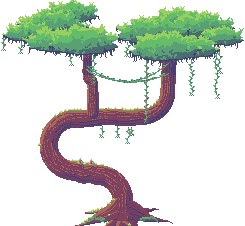
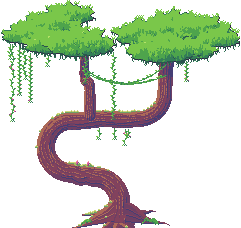
Arbusti e chiome con la tecnica degli esempi 116-118 di Bru
Bru: "miglioriamo gli arbusti e le foglie delle piante", con gli esempi
116-118 "da seguire rigorosamente".

- strumenti/livelli/piante.py: le foglie coi verdi e i valori degli esempi
  (scuro verde petrolio, medio verde pieno, luce verde-giallo, colpo di luce
  giallo); il fogliame a fasce nette con la luce in alto a sinistra, i
  passaggi fatti di foglie che pendono (col vuoto scuro che sale fra l'una
  e l'altra), tacche a V nella luce, ciuffetti chiari nell'ombra, pochi
  colpi di luce; il contorno scuro dalla parte dell'ombra e più chiaro
  dalla parte della luce; nei cespugli ogni lobo ha la sua luce e fra un
  lobo e l'altro la fessura in ombra; le chiome a cupole fatte allo stesso
  modo, col bordo in cima a ciuffi e 10 pixel di margine sopra (prima i
  ciuffi più alti si tagliavano).
- Rigenerati le piante, il ruscello e il pasto del goblin (cambiano solo le
  ombre degli alberi: la strada e la piazza restano identiche, la cucitura
  fra le due scene regge).

Claude-Session: https://claude.ai/code/session_01AE7uzpDH1Lo1PHb29aXJxZ

Changed region(s): [[0.0, 0.0, 1.0, 1.0]]

diff --git a/strumenti/livelli/piante.py b/strumenti/livelli/piante.py
@@ -7,13 +7,21 @@ passaggi di tono; le luci giallo-verdi a ventaglio sui lati in luce; l'indaco so
 che si vedono nei buchi; il tronco con le venature chiare dal lato della luce. I pixel sono della stessa misura di
 quelli di lei (niente ingrandimenti a blocchi): una pianta grande ha piu' lobi e piu' ciuffi, non foglie piu' grosse.
 Colori: quelli degli esempi di Bru (la stessa famiglia del prato).
+Le foglie dei cespugli e delle chiome (Bru, 27 novembre: "miglioriamo gli arbusti e le foglie delle piante", con gli
+esempi 116-118 "da seguire rigorosamente"): i verdi e i valori di quegli esempi (CHIOMA), fasce di luce nette (chiaro in
+alto a sinistra, medio, scuro in basso a destra, il piu' scuro in fondo e nelle fessure fra un lobo e l'altro), i
+passaggi fatti di foglie che pendono, le tacche a V nella luce, pochi colpi di luce gialla, il contorno (scuro dalla
+parte dell'ombra, piu' chiaro dalla parte della luce) e il bordo a ciuffi (_fogliame, _contorno).
 
 modulo: albero(alto, seme), pino(alto, seme), cespuglio(alto, seme) -> RGBA uint8
 uso: piante.py cartella_lei_chibi cartella_pezzi uscita.png   (la fila: lei, le piante nuove, le vecchie)"""
 import numpy as np
 
-# i colori degli esempi di Bru (110): chioma dallo scuro al chiaro, tronco
-CHIOMA = [(47, 41, 67), (69, 62, 116), (74, 109, 111), (89, 160, 116), (101, 189, 105), (151, 208, 95)]
+# le foglie, dallo scuro al chiaro, coi valori e i verdi degli esempi di Bru per cespugli e chiome (116-118): il
+# contorno indaco della mappa, lo scuro verde petrolio, il medio verde pieno, la luce verde-giallo viva e il colpo di
+# luce gialla (prima: i colori del 110, coi chiari troppo vicini e lo scuro viola)
+CHIOMA = [(47, 41, 67), (44, 84, 78), (52, 126, 88), (78, 164, 76), (122, 199, 74), (180, 226, 104)]
+# i colori degli esempi di Bru (110): il tronco
 TRONCO = [(69, 62, 116), (110, 64, 100), (130, 66, 93), (172, 105, 88)]
 # i pini: la rampa degli aghi (strumenti/tavolozza.py, 'pino'), piu' fredda, con gli stessi scuri
 PINO = [(47, 41, 67), (50, 54, 77), (45, 98, 104), (62, 132, 112), (112, 157, 118), (150, 182, 135)]
@@ -80,17 +88,29 @@ def _chioma(img, cerchi, rampa, rng, tono_base, sfondo_scuro=True):
     r_tot = max(c[1] + c[2] for c in cerchi) - min(c[1] - c[2] for c in cerchi)
     sagoma = np.zeros((h, w), bool)
     tono = np.full((h, w), -1.0)
+    lobo = np.full((h, w), -1)
     # dal fondo (dietro, in alto) al davanti (in basso): i lobi davanti coprono quelli dietro
-    for (cx, cy, r) in sorted(cerchi, key=lambda c: c[1]):
+    for i, (cx, cy, r) in enumerate(sorted(cerchi, key=lambda c: c[1])):
         dx, dy = (xx + 0.5 - cx) / r, (yy + 0.5 - cy) / (r * 0.92)
         d2 = dx * dx + dy * dy
         m = d2 <= 1.0
         nz = np.sqrt(np.clip(1 - d2, 0, 1))
         luce = (-dx * LUCE[0] * -1 * -1 + 0) if False else (dx * LUCE[0] + dy * LUCE[1]) * 0.75 + nz * 0.45
         alto = (cy_tot - cy) / max(r_tot, 1) * 1.2              # i lobi in alto prendono piu' luce
-        t = tono_base + luce * 1.6 + alto - 0.35
+        # come negli esempi 116-118: la luce chiara copre la meta' in alto a sinistra di ogni lobo, poi una fascia
+        # media, lo scuro solo in basso a destra
+        t = tono_base + luce * 2.6 + alto * 0.6 - 0.45
         tono[m] = t[m]
+        lobo[m] = i
         sagoma |= m
+    # dove un lobo dietro tocca quello davanti, la fessura e' in ombra (due gradini piu' scura, come fra i ciuffi
+    # degli esempi)
+    pad = np.pad(lobo, 1, constant_values=-1)
+    davanti = np.zeros((h, w), bool)
+    for dy, dx in ((1, 0), (-1, 0), (0, 1), (0, -1), (1, 1), (1, -1)):
+        v = pad[1 + dy:1 + dy + h, 1 + dx:1 + dx + w]
+        davanti |= (v > lobo) & (lobo >= 0)
+    tono[davanti] -= 2.0
     return sagoma, tono
 
 
@@ -131,6 +151,97 @@ def _colora(img, sagoma, tono, rampa, rng, minimo=1):
             forma = STELLE[rng.integers(len(STELLE))]
             _timbra(img, forma, x - len(forma[0]) // 2, y - len(forma) // 2, rampa[n - 1], sagoma)
     return liv
+
+
+# i segni del fogliame (esempi 116-118): le tacche scure a V e a trattino (il vuoto fra due ciuffi), i ciuffetti
+# chiari che pendono, i colpi di luce
+TACCHE = [['X.X', '.X.'], ['X.', '.X'], ['.X', 'X.'], ['X..X', '.XX.']]
+CIUFFETTI = [['X', 'X'], ['XX', '.X'], ['XX', 'X.'], ['.X.', 'XXX', '.X.'], ['XX', 'XX', '.X']]
+COLPI = [['X'], ['XX'], ['X', 'X'], ['.X', 'X.']]
+
+
+def _fogliame(img, m, tono, rng, rampa=CHIOMA, minimo=1, tacche=(22, 30), chiari=30, colpi=70):
+    """Il fogliame come negli esempi di Bru (116-118, il tutorial delle palle e delle cupole di foglie): il tono
+    continuo a fasce nette (la luce in alto a sinistra: chiaro, medio, scuro, il piu' scuro in fondo e nelle fessure);
+    ogni passaggio da una fascia chiara a quella piu' scura sotto e' una frangia di foglie che pendono (larghe un pixel,
+    lunghe da uno a quattro, qualcuna larga due in cima) col vuoto scuro che sale fra l'una e l'altra, e appena sotto
+    qualche ciuffetto staccato del tono chiaro: la luce scende nell'ombra a foglie, non a linea. Dentro le fasce le
+    tacche scure a V (il vuoto fra due ciuffi) e nelle fasce scure qualche ciuffetto chiaro; i colpi di luce gialla
+    solo nella luce piu' piena. Le foglie hanno la misura dei pixel di lei: una pianta grande ha piu' segni, non segni
+    piu' grossi. Ritorna i livelli."""
+    h, w = m.shape
+    n = len(rampa)
+    liv = np.clip(np.floor(tono + 0.5), minimo, n - 2).astype(int)
+    liv[~m] = -1
+    out = liv.copy()
+
+    def segna(forma, x0, y0, k, deve=None):
+        for j, r in enumerate(forma):
+            for i, ch in enumerate(r):
+                y, x = y0 + j, x0 + i
+                if ch == 'X' and 0 <= y < h and 0 <= x < w and m[y, x] and (deve is None or liv[y, x] == deve):
+                    out[y, x] = k
+    # le frange, colonna per colonna; e sotto ogni frangia, ogni tanto, un ciuffetto staccato del tono chiaro
+    for x in range(w):
+        for y in range(h - 1):
+            a, b = liv[y, x], liv[y + 1, x]
+            if a < 0 or b < 0 or a <= b:
+                continue
+            r = rng.random()
+            lung = 0 if r < 0.15 else (1 if r < 0.4 else (2 if r < 0.7 else (3 if r < 0.9 else 4)))
+            if lung == 0:
+                if y >= 1 and liv[y - 1, x] == a and rng.random() < 0.65:
+                    out[y, x] = b
+                continue
+            for k in range(1, lung + 1):
+                if y + k < h and m[y + k, x] and liv[y + k, x] == b:
+                    out[y + k, x] = a
+            if lung >= 2 and rng.random() < 0.35:
+                xx = x + (1 if rng.random() < 0.5 else -1)
+                if 0 <= xx < w and m[y + 1, xx] and liv[y + 1, xx] == b:
+                    out[y + 1, xx] = a
+            if rng.random() < 0.10:
+                yy = y + lung + int(rng.integers(2, 5))
+                segna(CIUFFETTI[int(rng.integers(len(CIUFFETTI)))], x - 1, yy, a, deve=b)
+    # dentro le fasce, lontano dai confini: tacche scure, ciuffetti chiari nelle fasce scure, colpi di luce
+    pad = np.pad(liv, 2, constant_values=-1)
+    lontano = m.copy()
+    for dy in range(-2, 3):
+        for dx in range(-2, 3):
+            lontano &= pad[2 + dy:2 + dy + h, 2 + dx:2 + dx + w] == liv
+    ys, xs = np.nonzero(lontano)
+    for i in rng.permutation(len(ys)):
+        y, x = ys[i], xs[i]
+        k = liv[y, x]
+        r = rng.random()
+        if k >= n - 2:                                   # la luce: tacche rade e i colpi di luce
+            if r < 1.0 / tacche[0]:
+                segna(TACCHE[int(rng.integers(len(TACCHE)))], x - 1, y, k - 1, deve=k)
+            elif r < 1.0 / tacche[0] + 1.0 / colpi and tono[y, x] > n - 2 + 0.15:
+                segna(COLPI[int(rng.integers(len(COLPI)))], x, y, n - 1, deve=k)
+        elif k > minimo:                                 # il medio: tacche e qualche ciuffetto chiaro
+            if r < 1.0 / tacche[1]:
+                segna(TACCHE[int(rng.integers(len(TACCHE)))], x - 1, y, k - 1, deve=k)
+            elif r < 1.0 / tacche[1] + 1.0 / chiari:
+                segna(CIUFFETTI[int(rng.integers(len(CIUFFETTI)))], x, y, k + 1, deve=k)
+        elif r < 1.0 / chiari:                           # lo scuro: ciuffetti chiari
+            segna(CIUFFETTI[int(rng.integers(len(CIUFFETTI)))], x, y, k + 1, deve=k)
+    for k in range(minimo, n):
+        img[(out == k) & m] = rampa[k]
+    return out
+
+
+def _contorno(img, m, rampa=CHIOMA):
+    """il contorno di un pixel dentro la sagoma, come negli esempi: piu' scuro dove guarda l'ombra (in basso e a destra),
+    due gradini piu' chiaro dove guarda la luce (in alto e a sinistra), come nell'esempio 118"""
+    h, w = m.shape
+    pad = np.pad(m, 1)
+    su, giu, sx, dx = ~pad[:-2, 1:-1], ~pad[2:, 1:-1], ~pad[1:-1, :-2], ~pad[1:-1, 2:]
+    bordo = m & (su | giu | sx | dx)
+    luce = bordo & (su | sx) & ~giu & ~dx
+    img[bordo] = rampa[0]
+    img[luce] = rampa[2]
+    return bordo
 
 
 def _ripulisci(img, dove):
@@ -311,16 +422,17 @@ def cespuglio(alto=80, seme=1):
         cerchi.append((cx + s * R * 0.62, base - alto * 0.28, alto * 0.3))
     sagoma, tono = _chioma(img, cerchi, CHIOMA, rng, tono_base=3.0)
     sagoma &= np.mgrid[0:h, 0:w][0] <= base                 # piatto in fondo, sul prato
-    sagoma = _bordo_a_punte(sagoma, rng)
+    sagoma = _bordo_a_punte(sagoma, rng, quante=0.22, lungo=(1, 2))
     sagoma &= np.mgrid[0:h, 0:w][0] <= base
     tono[sagoma & (tono < 0)] = 2.6
     chioma = np.zeros_like(img)
-    _colora(chioma, sagoma, tono, CHIOMA, rng, minimo=1)
-    for x in range(w):
+    _fogliame(chioma, sagoma, tono, rng)
+    for x in range(w):                                       # il fondo, dove tocca il prato, nell'ombra
         ys = np.nonzero(sagoma[:, x])[0]
         if len(ys):
             chioma[max(ys.min(), ys.max() - rng.integers(1, 3)):ys.max() + 1, x] = CHIOMA[1]
     _ripulisci(chioma, sagoma)
+    _contorno(chioma, sagoma)
     out = np.zeros((h, w, 4), np.uint8)
     out[..., :3] = chioma; out[..., 3] = sagoma * 255
     return _taglia(out)
@@ -567,38 +679,21 @@ def _gruppo(T, mx, my, rx, ryt, ryb, tono0, rng):
     vt = np.clip((yy - y0 - cima[None, :]) / np.maximum(1, fondo - cima)[None, :], 0, 1)
     tono = tono0 - 3.1 * vt ** 0.8 - 0.5 * dx
     n = len(CHIOMA)
-    liv = np.clip(np.floor(tono + 0.5), 1, n - 1).astype(int)
+    # il fogliame degli esempi di Bru (116-118, la cupola del tutorial): fasce nette, frange di foglie che pendono,
+    # tacche a V, i colpi di luce in cima
     blocco = T.img[y0:y1, x0:x1]
-    for k in range(1, n):
-        blocco[m & (liv == k)] = CHIOMA[k]
+    sub = np.zeros_like(blocco)
+    liv = _fogliame(sub, m, tono, rng)
+    blocco[m] = sub[m]
     T.op[y0:y1, x0:x1] |= m
     dove = np.zeros((T.h, T.w), bool)
     dove[y0:y1, x0:x1] = m
-    frazione = tono + 0.5 - np.floor(tono + 0.5)
-    # le foglie larghe sui confini fra un tono e l'altro: dove sopra e' piu' chiaro pendono foglie chiare, dove sotto
-    # e' piu' scuro salgono foglie scure
-    for _ in range(int(m.sum() / 9)):
-        j, i = int(rng.integers(0, y1 - y0)), int(rng.integers(0, x1 - x0))
-        if not m[j, i]:
-            continue
-        k, f = liv[j, i], frazione[j, i]
-        if f > 0.6 and k + 1 < n:
-            forma = _specchia(FOGLIE_GIU[rng.integers(len(FOGLIE_GIU))], rng)
-            T.timbra(forma, x0 + i - 1, y0 + j - 1, CHIOMA[k + 1], dove)
-        elif f < 0.3 and k - 1 >= 1:
-            forma = _specchia(FOGLIE_SU[rng.integers(len(FOGLIE_SU))], rng)
-            T.timbra(forma, x0 + i - 1, y0 + j - len(forma) + 1, CHIOMA[k - 1], dove)
     # i ciuffi di foglie che spuntano dal bordo di sopra, nel tono della cima
     for i in range(x1 - x0):
-        if m[:, i].any() and rng.random() < 0.16:
+        if m[:, i].any() and rng.random() < 0.42:
             j = cima[i]
             forma = FOGLIE_SU[rng.integers(len(FOGLIE_SU))]
-            T.timbra(forma, x0 + i - 1, y0 + j - len(forma), CHIOMA[min(n - 1, liv[j, i])])
-    # i luccichii in cima, dove e' piu' chiaro
-    for _ in range(int(m.sum() / 70)):
-        j, i = int(rng.integers(0, y1 - y0)), int(rng.integers(0, x1 - x0))
-        if m[j, i] and tono[j, i] > n - 1.3:
-            T.timbra(LUCCICHII[rng.integers(len(LUCCICHII))], x0 + i - 1, y0 + j, (213, 252, 135), dove)
+            T.timbra(forma, x0 + i - 1, y0 + j - len(forma), CHIOMA[min(n - 2, max(1, liv[j, i]))])
     # sotto: l'indaco del fondo e le foglie che pendono, lunghe e corte, con la punta che gira
     for i in range(x1 - x0):
         if not m[:, i].any():
@@ -613,6 +708,20 @@ def _gruppo(T, mx, my, rx, ryt, ryb, tono0, rng):
                     xg += 1 if rng.random() < 0.5 else -1
                 T.metti(xg, y0 + jb + k, CHIOMA[1] if k < lung else CHIOMA[2])
     return dove
+
+
+def _contorno_chioma(T, chioma):
+    """il contorno della chioma come negli esempi: i pixel della chioma che toccano il vuoto (non il tronco o i rami)
+    diventano il piu' scuro dove guardano l'ombra, due gradini piu' chiaro dove guardano la luce"""
+    sagoma = chioma & T.op
+    sub = T.img.copy()
+    pad = np.pad(T.op, 1)
+    su, giu, sx, dx = ~pad[:-2, 1:-1], ~pad[2:, 1:-1], ~pad[1:-1, :-2], ~pad[1:-1, 2:]
+    bordo = sagoma & (su | giu | sx | dx)
+    luce = bordo & (su | sx) & ~giu & ~dx
+    sub[bordo] = CHIOMA[0]
+    sub[luce] = CHIOMA[2]
+    T.img[bordo] = sub[bordo]
 
 
 def _felce(T, x, y, larga, rng):
@@ -644,7 +753,7 @@ def albero_esotico(alto=230, seme=1, con_piede=False):
     # con_piede: ritorna anche il piede (il mezzo del tronco dove tocca terra) nel disegno ritagliato
     rng = np.random.default_rng(seme)
     Wc = alto * rng.uniform(0.95, 1.06)                      # quanto e' larga la chioma
-    w, h = int(Wc) + 30, alto + 14
+    w, h = int(Wc) + 30, alto + 24                           # 10 di margine sopra: i ciuffi in cima non si tagliano
     T = _Tela(h, w)
     base = h - 8                                             # dove il tronco tocca terra
     cx = w / 2 + rng.uniform(-3, 3)
@@ -762,6 +871,7 @@ def albero_esotico(alto=230, seme=1, con_piede=False):
     chioma = np.zeros((h, w), bool)
     for (mx, my, rx, ryt, ryb, tono) in gruppi:
         chioma |= _gruppo(T, mx, my, rx, ryt, ryb, tono, rng)
+    _contorno_chioma(T, chioma)
     # le liane che pendono dal fondo dei gruppi
     fondi = []
     for x in range(w):
@@ -928,7 +1038,7 @@ def _legno_lungo(T, P, Wd, rng, rampa=TRONCO):
 def albero_serpente(alto=230, seme=1, con_piede=False):
     rng = np.random.default_rng(seme)
     Wc = alto * rng.uniform(0.95, 1.05)
-    w, h = int(Wc) + 40, alto + 14
+    w, h = int(Wc) + 40, alto + 24                           # 10 di margine sopra: i ciuffi in cima non si tagliano
     T = _Tela(h, w)
     base = h - 8
     cx = w / 2 + rng.uniform(-3, 3)
@@ -1063,6 +1173,7 @@ def albero_serpente(alto=230, seme=1, con_piede=False):
     chioma = np.zeros((h, w), bool)
     for (mx, my, rx, ryt, ryb, tono) in gruppi:
         chioma |= _gruppo(T, mx, my, rx, ryt, ryb, tono, rng)
+    _contorno_chioma(T, chioma)
     fondi = [(x, np.nonzero(chioma[:, x])[0].max()) for x in range(w) if chioma[:, x].any()]
     for _ in range(int(Wc / 24)):
         x, yb = fondi[int(rng.integers(len(fondi)))]
